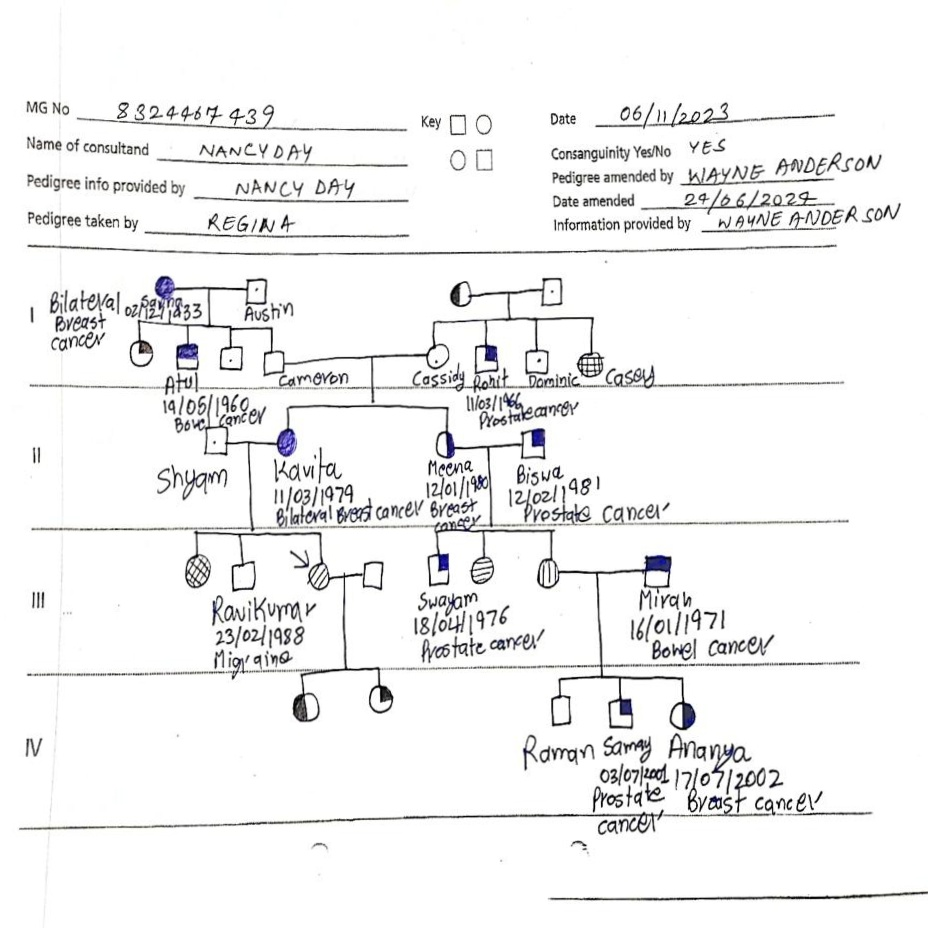
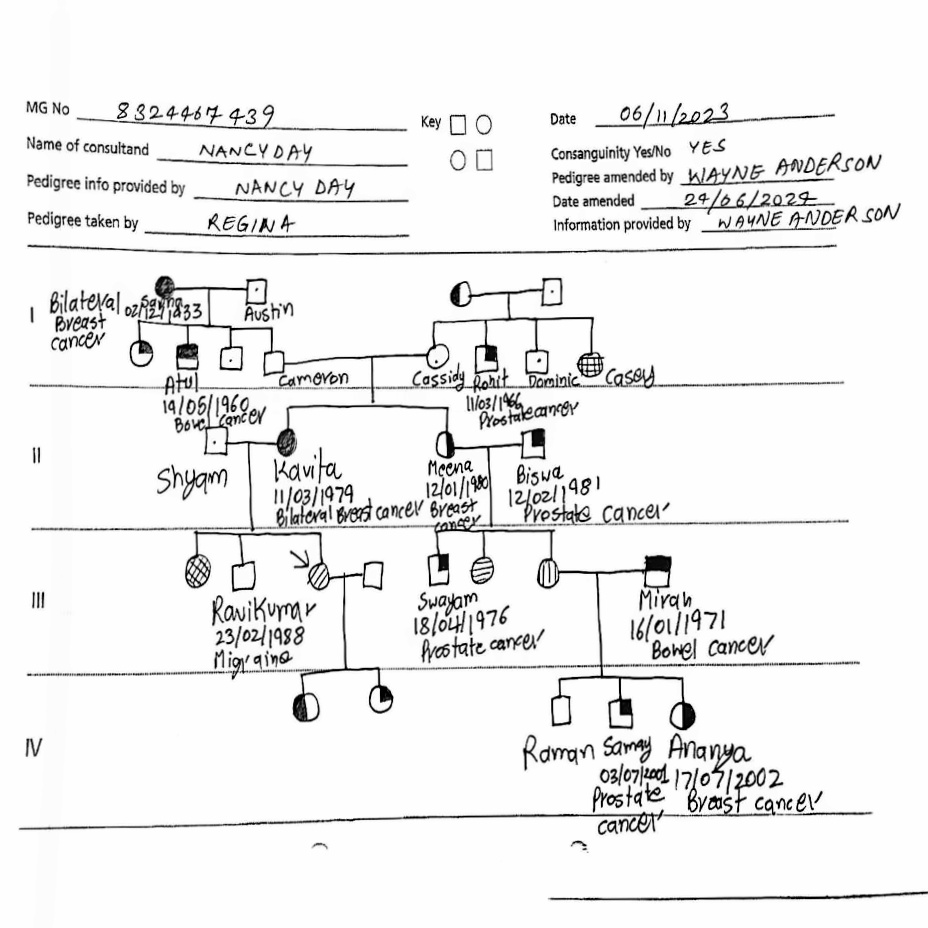
color tinting code improved

diff --git a/image_processing.py b/image_processing.py
@@ -20,19 +20,66 @@ def setup_logger(name='image_processing_logger', level=logging.INFO):
     return logger
 
 def load_image(image_path, logger):
-    """Load and convert image to grayscale"""
+    """Load image and preprocess it to improve OCR & orientation correction"""
     if not os.path.exists(image_path):
         raise FileNotFoundError(f"File not found: {image_path}")
     
     try:
-        original_image = Image.open(image_path)
-        grayscaled_image = original_image.convert("L")
-        logger.info(f"Converted image to grayscale: {os.path.basename(image_path)}")
-        return np.array(grayscaled_image)
+        original_image = cv2.imread(image_path)
+
+        if original_image is None:
+            raise ValueError("cv2.imread() failed to read the image.")
+        
+        logger.info(f"Loaded image: {os.path.basename(image_path)}")
+
+        # Step 1: Safe shadow correction using illumination normalization
+        # gray = cv2.cvtColor(original_image, cv2.COLOR_BGR2GRAY)
+        # bg = cv2.medianBlur(gray, 21)
+        # normalized = cv2.divide(gray, bg, scale=255)
+        # logger.info("Illumination normalization (safe shadow correction) applied.")
+
+        # Step 2: White balance correction
+        wb = cv2.xphoto.createSimpleWB()
+        white_balanced = wb.balanceWhite(original_image)
+        logger.info("White balance correction applied.")
+
+        # Step 3: Perspective correction (optional)
+        blurred = cv2.GaussianBlur(white_balanced, (5, 5), 0)
+        edges = cv2.Canny(blurred, 50, 150)
+        contours, _ = cv2.findContours(edges, cv2.RETR_EXTERNAL, cv2.CHAIN_APPROX_SIMPLE)
+        contours = sorted(contours, key=cv2.contourArea, reverse=True)
+
+        if contours:
+            page = contours[0]
+            epsilon = 0.02 * cv2.arcLength(page, True)
+            approx = cv2.approxPolyDP(page, epsilon, True)
+            if len(approx) == 4:
+                pts = np.float32([pt[0] for pt in approx])
+                rect = np.array(sorted(pts, key=lambda x: (x[1], x[0])))
+                (tl, tr, br, bl) = rect
+                width = int(max(np.linalg.norm(br - bl), np.linalg.norm(tr - tl)))
+                height = int(max(np.linalg.norm(tr - br), np.linalg.norm(tl - bl)))
+                dst = np.array([[0,0],[width-1,0],[width-1,height-1],[0,height-1]], dtype="float32")
+                M = cv2.getPerspectiveTransform(rect, dst)
+                warped = cv2.warpPerspective(white_balanced, M, (width, height))
+                logger.info("Perspective correction applied.")
+            else:
+                warped = white_balanced
+                logger.info("Could not find 4 corners for perspective correction.")
+        else:
+            warped = white_balanced
+            logger.info("No contours found for perspective correction.")
+
+        # Step 4: Final grayscale conversion
+        grayscaled_image = cv2.cvtColor(warped, cv2.COLOR_BGR2GRAY)
+        logger.info("Converted image to grayscale.")
+        return grayscaled_image
+
     except Exception as e:
-        logger.error(f"Failed to convert image to grayscale: {str(e)}")
-        logger.warning(f"Using original image without grayscale conversion")
-        return np.array(original_image)
+        logger.error(f"Preprocessing failed: {str(e)}")
+        raise RuntimeError(f"Preprocessing failed: {str(e)}")
+
+
 
 def detect_angle_hough(img, logger):
     """Detect rotation angle using Hough Transform"""
@@ -121,7 +168,7 @@ def process_image(image_path, file=None):
             
         # Detect and apply OCR-based orientation
         ocr_angle = detect_ocr_orientation(img, logger)
-        if ocr_angle is not None and abs(ocr_angle) >= 20:
+        if ocr_angle is not None and abs(ocr_angle) >= 40:
             img = rotate_image(img, -ocr_angle, logger)
             
         # Save result
